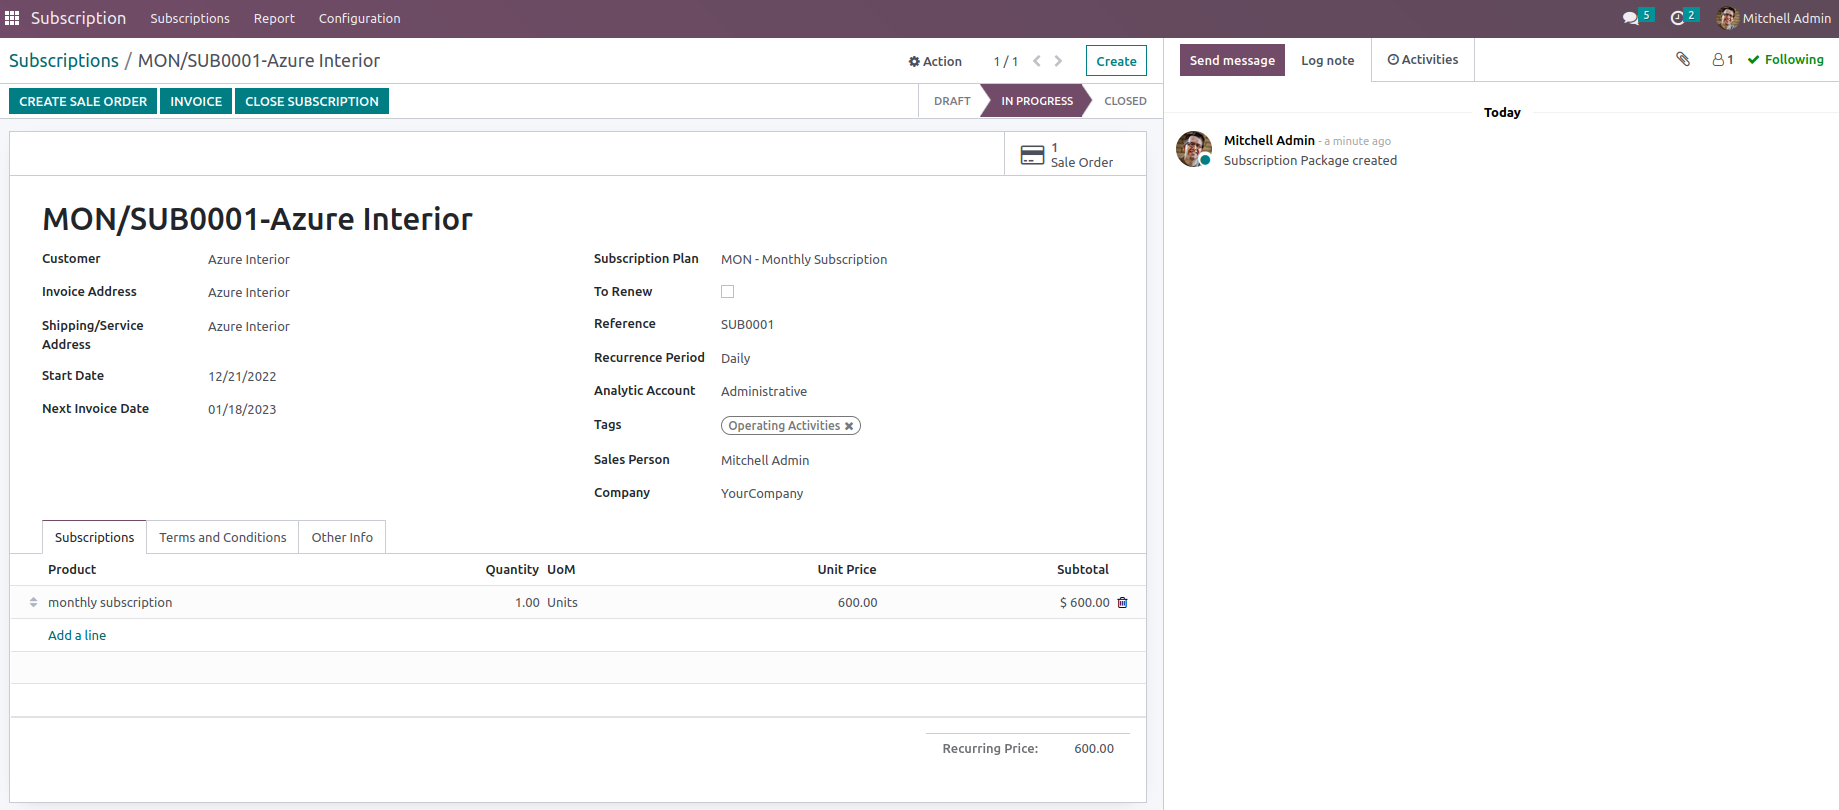
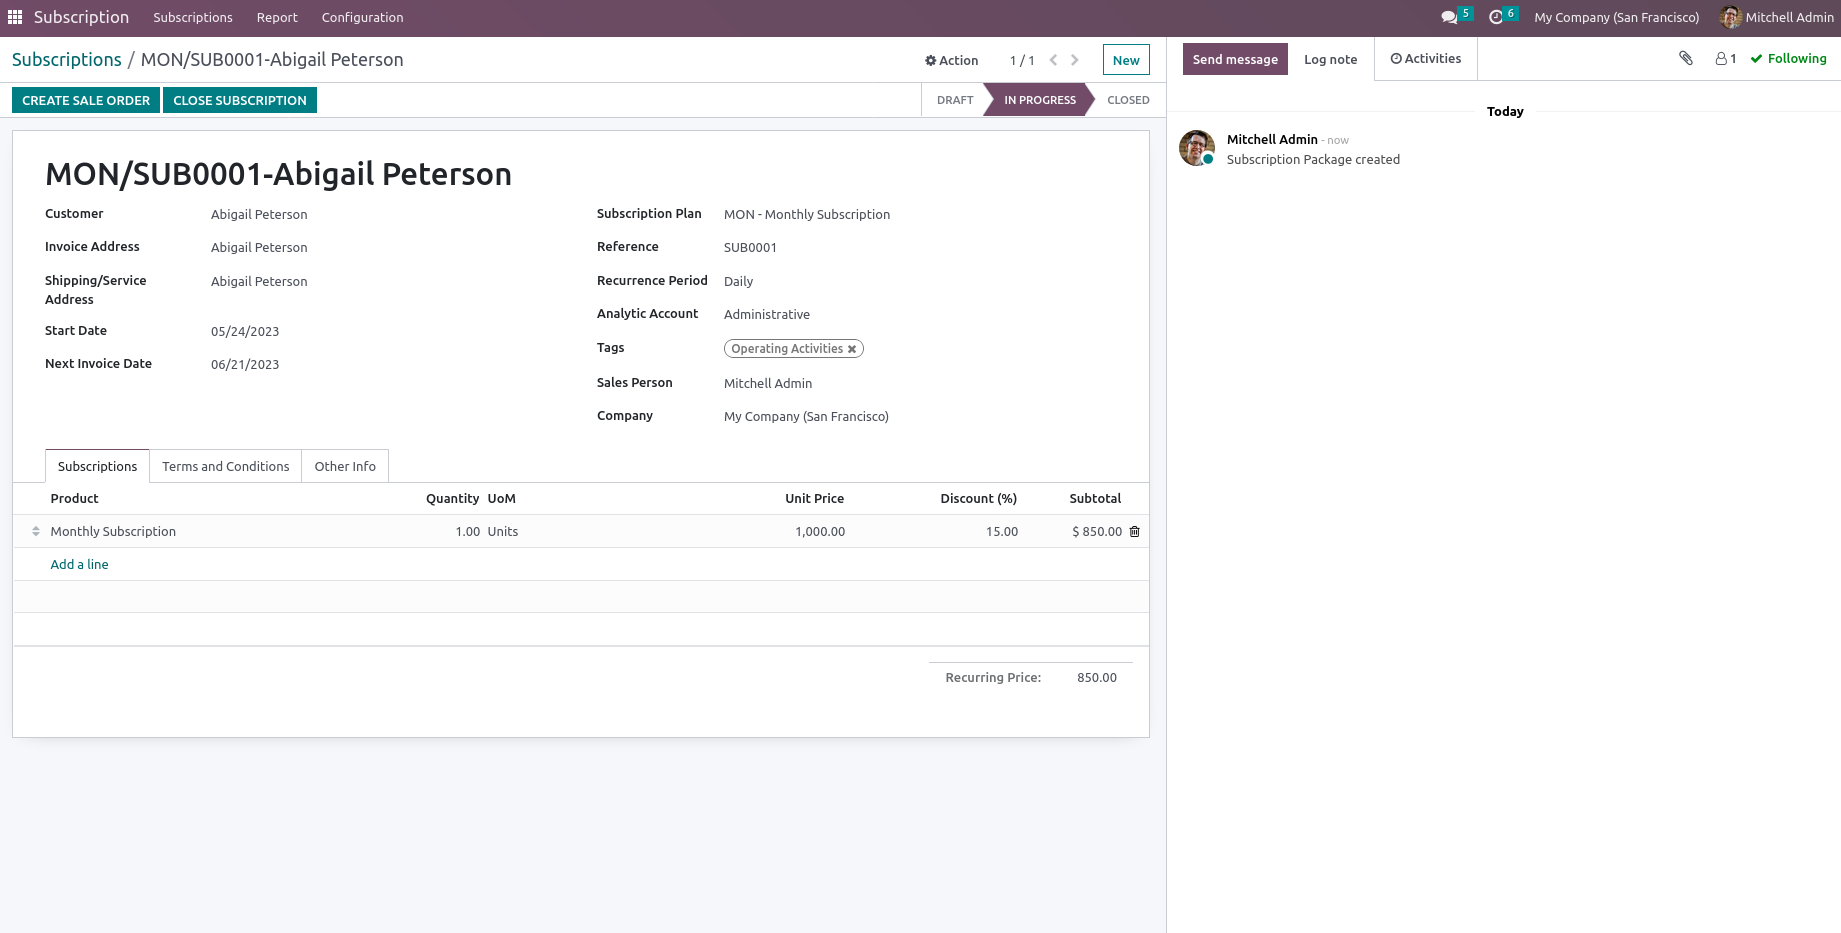
May 24 : [UPDT] Updated 'subscription_package'

diff --git a/subscription_package/static/description/index.html b/subscription_package/static/description/index.html
@@ -297,6 +297,14 @@
     </div>
 
     <div style="display: block; margin: 30px auto;">
+        <h3 style="font-family: 'Montserrat', sans-serif; font-size: 18px; font-weight: bold;">
+            Discount in Subscriptions
+        </h3>
+
+        <img src="assets/screenshots/SUB15.png" class="img-thumbnail">
+    </div>
+
+    <div style="display: block; margin: 30px auto;">
         <h3 style="font-family: 'Montserrat', sans-serif; font-size: 18px; font-weight: bold;"> Create Subscription
             Package with Sale Order
         </h3>

diff --git a/subscription_package/models/subscription_package.py b/subscription_package/models/subscription_package.py
@@ -46,10 +46,12 @@ class SubscriptionPackageProductLine(models.Model):
     product_uom_id = fields.Many2one('uom.uom', string='UoM', store=True,
                                      related='product_id.uom_id',
                                      ondelete='restrict')
-    uom_catg_id = fields.Many2one('uom.category', string='UoM Category', store=True,
+    uom_catg_id = fields.Many2one('uom.category', string='UoM Category',
+                                  store=True,
                                   related='product_id.uom_id.category_id')
     unit_price = fields.Float(string='Unit Price', store=True, readonly=False,
                               related='product_id.list_price')
+    discount = fields.Float(string="Discount (%)")
     currency_id = fields.Many2one('res.currency', string='Currency',
                                   store=True,
                                   related='subscription_id.currency_id')
@@ -61,12 +63,14 @@ class SubscriptionPackageProductLine(models.Model):
                                      store=True,
                                      related='subscription_id.partner_id')
 
-    @api.depends('product_qty', 'unit_price')
+    @api.depends('product_qty', 'unit_price', 'discount')
     def _compute_total_amount(self):
         """ Calculate subtotal amount of product line """
         for rec in self:
             if rec.product_id:
                 rec.total_amount = rec.unit_price * rec.product_qty
+                if rec.discount != 0:
+                    rec.total_amount -= rec.total_amount * (rec.discount / 100)
 
     def _valid_field_parameter(self, field, name):
         if name == 'ondelete':
@@ -186,11 +190,9 @@ class SubscriptionPackage(models.Model):
             rec.current_stage = rec.env['subscription.package.stage'].search(
                 [('id', '=', rec.stage_id.id)]).category
 
-    @api.depends('start_date')
+    @api.constrains('start_date')
     def _compute_next_invoice_date(self):
-        pending_subscriptions = self.env['subscription.package'].search(
-            [('stage_category', '=', 'progress')])
-        for sub in pending_subscriptions:
+        for sub in self.env['subscription.package'].search([]):
             if sub.start_date:
                 sub.next_invoice_date = sub.start_date + relativedelta(
                     days=sub.plan_id.renewal_time)
@@ -234,46 +236,6 @@ class SubscriptionPackage(models.Model):
             'target': 'new'
         }
 
-    def button_payment(self):
-        """ Button to create invoice for subscription package"""
-        this_products_line = []
-        for rec in self.product_line_ids:
-            rec_list = [0, 0, {'product_id': rec.product_id.id,
-                               'quantity': rec.product_qty}]
-            this_products_line.append(rec_list)
-        invoices = self.env['account.move'].search(
-            [('subscription_id', '=', self.id), ('state', '=', 'draft')])
-        orders = self.env['sale.order'].search(
-            [('subscription_id', '=', self.id), ('invoice_status', '=', 'no')])
-        if invoices:
-            for invoice in invoices:
-                invoice.action_post()
-        if orders and invoices:
-            for order in orders:
-                order.action_confirm()
-            for invoice in invoices:
-                invoice.action_post()
-        out_invoice = self.env['account.move'].create(
-            {
-                'move_type': 'out_invoice',
-                'date': fields.Date.today(),
-                'invoice_date': fields.Date.today(),
-                'partner_id': self.partner_invoice_id.id,
-                'currency_id': self.partner_invoice_id.currency_id.id,
-                'invoice_line_ids': this_products_line
-            })
-        self.env['account.move'].payment_id = out_invoice.id
-        if self.stage_category == 'progress':
-            values = {'start_date': datetime.datetime.today()}
-            self.write(values)
-        return {
-            'name': 'Subscription Payment',
-            'type': 'ir.actions.act_window',
-            'res_model': 'account.move',
-            'view_mode': 'form',
-            'res_id': out_invoice.id
-        }
-
     def button_start_date(self):
         """Button to start subscription package"""
 
@@ -297,7 +259,8 @@ class SubscriptionPackage(models.Model):
         this_products_line = []
         for rec in self.product_line_ids:
             rec_list = [0, 0, {'product_id': rec.product_id.id,
-                               'product_uom_qty': rec.product_qty}]
+                               'product_uom_qty': rec.product_qty,
+                               'discount': rec.discount}]
             this_products_line.append(rec_list)
         orders = self.env['sale.order'].search(
             [('id', '=', self.sale_order_count),
@@ -320,7 +283,10 @@ class SubscriptionPackage(models.Model):
             'type': 'ir.actions.act_window',
             'res_model': 'sale.order',
             'domain': [('id', '=', so_id.id)],
-            'view_mode': 'tree,form'
+            'view_mode': 'tree,form',
+            'context': {
+                "create": False
+            }
         }
 
     @api.model_create_multi

diff --git a/subscription_package/models/recurrence_period.py b/subscription_package/models/recurrence_period.py
@@ -19,7 +19,6 @@
 #    If not, see <http://www.gnu.org/licenses/>.
 #
 #############################################################################
-
 from odoo import models, fields
 
 
@@ -31,13 +30,14 @@ class RecurrencePeriod(models.Model):
     name = fields.Char(string="Name")
     duration = fields.Float(string="Duration")
     unit = fields.Selection([('hours', 'hours'),
-                                     ('days', 'Days'),('weeks', 'Weeks'),('months', 'Months'),('years', 'Years')],
-                                   string= 'Unit' )
-
+                             ('days', 'Days'), ('weeks', 'Weeks'),
+                             ('months', 'Months'), ('years', 'Years')],
+                            string='Unit')
 
 
 class SubPackages(models.Model):
     """ This function is used to inherit subscription packages"""
     _inherit = 'subscription.package'
 
-    recurrence_period_id = fields.Many2one("recurrence.period" , string= "Recurrence Period")
+    recurrence_period_id = fields.Many2one("recurrence.period",
+                                           string="Recurrence Period")

diff --git a/subscription_package/models/subscription_products.py b/subscription_package/models/subscription_products.py
@@ -39,7 +39,7 @@ class AccountMove(models.Model):
                 [('name', '=', rec.get('invoice_origin'))])
             if so_id.is_subscription is True:
                 new_vals_list = [{'is_subscription': True,
-                                  'subscription_id': so_id.subscription_id}]
+                                  'subscription_id': so_id.subscription_id.id}]
                 vals_list[0].update(new_vals_list[0])
         return super().create(vals_list)
 

diff --git a/subscription_package/__manifest__.py b/subscription_package/__manifest__.py
@@ -22,7 +22,7 @@
 
 {
     'name': 'Subscription Management For Community Odoo 16',
-    'Version': '16.0.1.0.0',
+    'Version': '16.0.1.1.1',
     'summary': 'Subscription Package Management Module For Odoo16 Community',
     'description': 'Subscription Package Management Module For Odoo16 Community',
     'category': 'Sales',

diff --git a/subscription_package/models/__init__.py b/subscription_package/models/__init__.py
@@ -27,5 +27,5 @@ from . import subscription_products
 from . import subscription_close
 from . import subscription_renew
 from . import res_partner
-from.import recurrence_period
+from . import recurrence_period
 from . import sale_order
